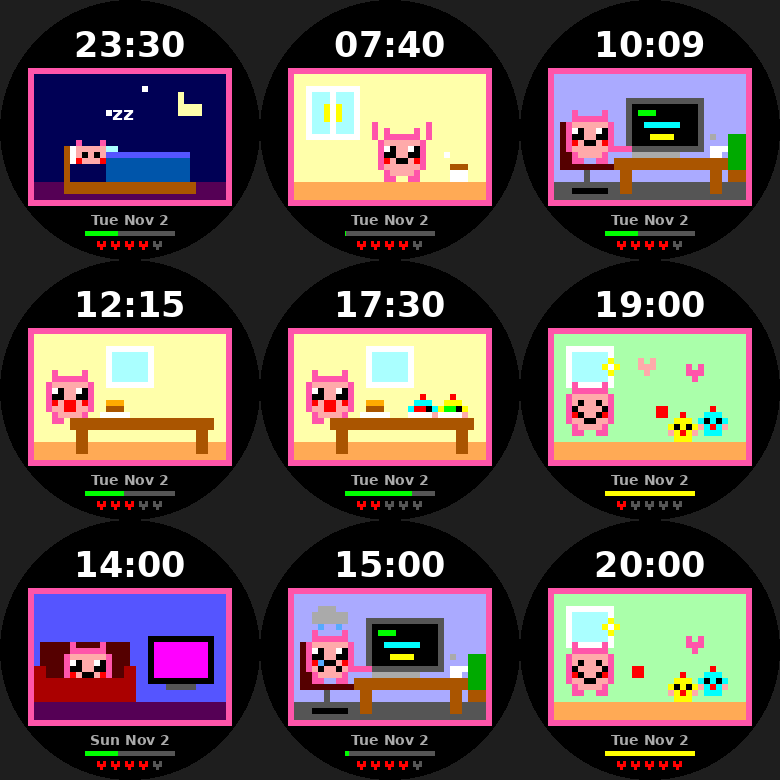
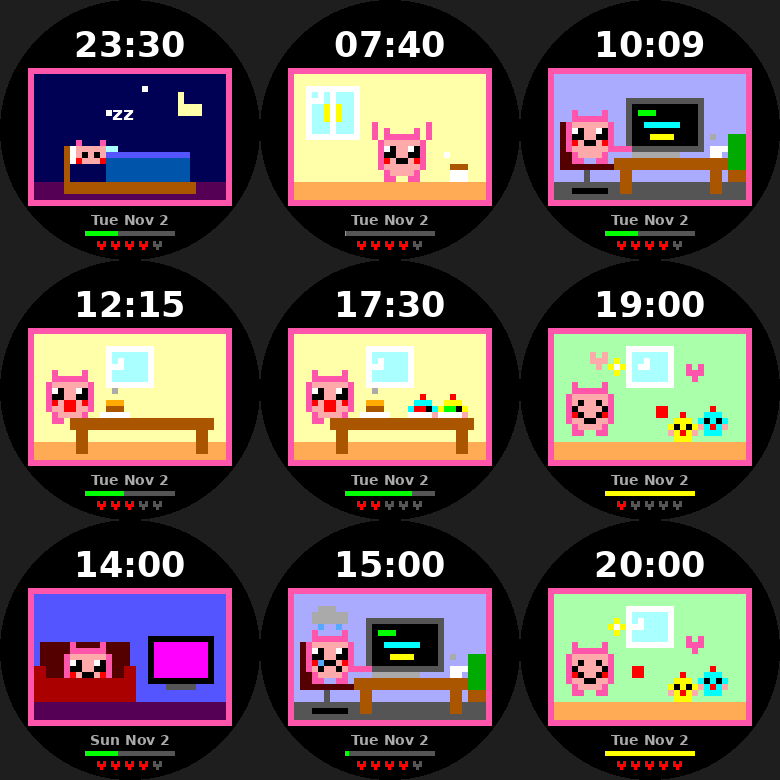
Add five selectable pets (tap to cycle), window clouds, food steam
Claude-Session: https://claude.ai/code/session_011ky8cAnUXaEurYwVogiPNe

diff --git a/desk-pet/src/c/main.c b/desk-pet/src/c/main.c
@@ -60,30 +60,98 @@ static void heart_px(GColor c, int x, int y) {
   box(c, x + 1, y + 2, 1, 1);
 }
 
-// Pet palette: a soft pink blob with a deeper pink outline.
-#define PET_BODY GColorMelon
-#define PET_OUT  GColorShockingPink
+// ------------------------------------------------------------- pet species
+// Flick your wrist (tap) to cycle through the pets; the choice is saved.
+
+typedef enum { EARS_NUB, EARS_CAT, EARS_BUNNY, EARS_BEAR, EARS_FROG } EarStyle;
+#define NUM_SPECIES 5
+#define PERSIST_SPECIES 1
+
+typedef struct {
+  GColor body, out, blush, snout;
+  EarStyle ears;
+} Species;
+
+static Species s_sp;
+static int s_species;
+
+static void load_species(int id) {
+  switch (id) {
+    default:
+    case 0:  // blob: pink blob
+      s_sp = (Species){GColorMelon, GColorShockingPink, GColorRed, GColorMelon, EARS_NUB};
+      break;
+    case 1:  // cat: orange tabby
+      s_sp = (Species){GColorRajah, GColorOrange, GColorShockingPink, GColorRajah, EARS_CAT};
+      break;
+    case 2:  // bunny: white with long ears
+      s_sp = (Species){GColorWhite, GColorLightGray, GColorShockingPink, GColorWhite, EARS_BUNNY};
+      break;
+    case 3:  // bear: brown with a creamy snout
+      s_sp = (Species){GColorWindsorTan, GColorBulgarianRose, GColorMelon, GColorRajah, EARS_BEAR};
+      break;
+    case 4:  // frog: green with eye bumps and a wide grin
+      s_sp = (Species){GColorGreen, GColorIslamicGreen, GColorShockingPink, GColorGreen, EARS_FROG};
+      break;
+  }
+}
+
+#define PET_BODY (s_sp.body)
+#define PET_OUT  (s_sp.out)
 
 static int s_bob;   // 1 = pet is standing and hops on odd frames
 
 static void px(int x, int y, GColor c) { box(c, x, y, 1, 1); }
 
-// The grown-up pet: 8 wide, 8 tall (plus ear nubs one row above).
+// The grown-up pet: 8 wide, 8 tall plus ears/extras around it.
 // mouth: 0 = closed, 1 = open (chewing / talking)
 static void pet(int x, int y, bool blink, int mouth) {
   if (s_bob && (s_tick & 1)) y -= 1;               // little hop
-  // ear nubs
-  px(x + 1, y - 1, PET_OUT);
-  px(x + 6, y - 1, PET_OUT);
+  GColor out = s_sp.out, body = s_sp.body;
+  // ears / bumps (drawn first so the head overlaps them)
+  switch (s_sp.ears) {
+    case EARS_CAT:
+      box(out, x + 1, y - 1, 2, 1);  px(x + 1, y - 2, out);
+      box(out, x + 5, y - 1, 2, 1);  px(x + 6, y - 2, out);
+      break;
+    case EARS_BUNNY:
+      box(out, x + 1, y - 3, 2, 3);  px(x + 2, y - 2, s_sp.blush);
+      box(out, x + 5, y - 3, 2, 3);  px(x + 5, y - 2, s_sp.blush);
+      break;
+    case EARS_BEAR:
+      box(out, x, y - 1, 2, 2);
+      box(out, x + 6, y - 1, 2, 2);
+      break;
+    case EARS_FROG:
+      box(out, x + 1, y - 1, 2, 1);
+      box(out, x + 5, y - 1, 2, 1);
+      break;
+    default:
+      px(x + 1, y - 1, out);
+      px(x + 6, y - 1, out);
+      break;
+  }
   // body: outline, then fill
-  box(PET_OUT, x + 1, y, 6, 1);
-  box(PET_OUT, x, y + 1, 8, 5);
-  box(PET_OUT, x + 1, y + 6, 6, 1);
-  box(PET_BODY, x + 1, y + 1, 6, 5);
-  box(PET_BODY, x + 2, y + 6, 4, 1);
+  box(out, x + 1, y, 6, 1);
+  box(out, x, y + 1, 8, 5);
+  box(out, x + 1, y + 6, 6, 1);
+  box(body, x + 1, y + 1, 6, 5);
+  box(body, x + 2, y + 6, 4, 1);
   // feet
-  box(PET_OUT, x + 1, y + 7, 2, 1);
-  box(PET_OUT, x + 5, y + 7, 2, 1);
+  box(out, x + 1, y + 7, 2, 1);
+  box(out, x + 5, y + 7, 2, 1);
+  // extras: whiskers + wagging tail, bunny pom-pom, bear snout
+  if (s_sp.ears == EARS_CAT) {
+    px(x - 1, y + 3, GColorDarkGray);  px(x - 1, y + 5, GColorDarkGray);
+    px(x + 8, y + 3, GColorDarkGray);  px(x + 8, y + 5, GColorDarkGray);
+    box(out, x + 8, y + 6, 1, 2);
+    px(x + 9, y + 5 + (int)(s_tick & 1), out);
+  } else if (s_sp.ears == EARS_BUNNY) {
+    px(x - 1, y + 6, GColorWhite);
+    px(x - 1, y + 5, GColorWhite);
+  } else if (s_sp.ears == EARS_BEAR) {
+    box(s_sp.snout, x + 2, y + 4, 4, 2);
+  }
   // big shiny eyes (2x2 each) or sleepy blink
   if (blink) {
     box(GColorBlack, x + 1, y + 3, 2, 1);
@@ -100,8 +168,10 @@ static void pet(int x, int y, bool blink, int mouth) {
     px(x + 5, y + 2, GColorWhite);
   }
   // blush
-  px(x + 1, y + 4, GColorRed);
-  px(x + 6, y + 4, GColorRed);
+  if (s_sp.ears != EARS_BEAR) {
+    px(x + 1, y + 4, s_sp.blush);
+    px(x + 6, y + 4, s_sp.blush);
+  }
   // mouth
   if (mouth) {
     box(GColorRed, x + 3, y + 4, 2, 2);
@@ -113,21 +183,24 @@ static void pet(int x, int y, bool blink, int mouth) {
     px(x + 2, y + 4, GColorBlack);                 // big smile
     px(x + 5, y + 4, GColorBlack);
     box(GColorBlack, x + 3, y + 5, 2, 1);
+  } else if (s_sp.ears == EARS_FROG) {
+    box(GColorBlack, x + 2, y + 5, 4, 1);          // wide froggy grin
   } else {
-    px(x + 3, y + 4, GColorBlack);                 // tiny "w" mouth
+    px(x + 3, y + 4, GColorBlack);                 // tiny "w" mouth / nose
     px(x + 4, y + 4, GColorBlack);
   }
   if (s_mood == MOOD_SAD) {
     box(GColorPictonBlue, x + 2, y + 4, 1, 1 + (int)(s_tick & 1));   // tear
     // little rain cloud overhead
-    box(GColorLightGray, x + 1, y - 4, 6, 2);
-    box(GColorLightGray, x + 2, y - 5, 3, 1);
-    px(x + 2 + 2 * (int)(s_tick & 1), y - 2, GColorPictonBlue);
-    px(x + 5 - 2 * (int)(s_tick & 1), y - 2, GColorPictonBlue);
+    int cy = y - (s_sp.ears == EARS_BUNNY ? 7 : 4);
+    box(GColorLightGray, x + 1, cy, 6, 2);
+    box(GColorLightGray, x + 2, cy - 1, 3, 1);
+    px(x + 2 + 2 * (int)(s_tick & 1), cy + 2, GColorPictonBlue);
+    px(x + 5 - 2 * (int)(s_tick & 1), cy + 2, GColorPictonBlue);
   } else if (s_mood == MOOD_HAPPY) {
     // twinkling sparkles
-    int sx = (s_tick & 1) ? x + 7 : x;
-    int sy = y - 5;
+    int sx = (s_tick & 1) ? x + 8 : x - 1;
+    int sy = y - (s_sp.ears == EARS_BUNNY ? 6 : 5);
     box(GColorYellow, sx, sy, 1, 3);
     box(GColorYellow, sx - 1, sy + 1, 3, 1);
     px(sx, sy + 1, GColorWhite);
@@ -149,6 +222,13 @@ static void kid(int x, int y, GColor c, bool happy) {
   } else {
     px(x + 2, y + 2, GColorBlack);
   }
+}
+
+// A small cloud drifting across a window (x0..x0+w-1 at row y0).
+static void cloud(int x0, int y0, int w) {
+  int cx = x0 + (int)((s_tick / 3) % (uint32_t)(w - 1));
+  box(GColorWhite, cx, y0, 2, 1);
+  px(cx + 1, y0 - 1, GColorWhite);
 }
 
 static void room(GColor wall, GColor floor_c) {
@@ -198,6 +278,7 @@ static void scene_wake(void) {
   box(GColorWhite, 2, 2, 9, 9);
   box(GColorCeleste, 3, 3, 7, 7);
   box(GColorYellow, 5, 5, 3, 3);
+  cloud(3, 4, 7);
   box(GColorWhite, 6, 2, 1, 9);
   // stretching pet
   int pxx = 14, pyy = 10;
@@ -260,6 +341,7 @@ static void table_scene(bool family) {
   // window
   box(GColorWhite, 12, 2, 8, 7);
   box(GColorCeleste, 13, 3, 6, 5);
+  cloud(13, 5, 5);
   pet(2, 7, (s_tick % 7) == 0, mouth);
   if (family) {
     kid(19, 11, GColorCyan, mouth);
@@ -273,6 +355,7 @@ static void table_scene(bool family) {
   box(GColorWhite, 11, 13, 5, 1);
   box(GColorChromeYellow, 12, 11, 3, 1);          // bun
   box(GColorWindsorTan, 12, 12, 3, 1);            // patty
+  px(13, 10 - (int)(s_tick & 1), GColorLightGray);  // steam
   if (family) {
     box(GColorWhite, 19, 13, 4, 1);
     box(GColorRed, 20, 12, 2, 1);
@@ -284,8 +367,9 @@ static void table_scene(bool family) {
 static void scene_play(void) {
   room(GColorMintGreen, GColorRajah);
   // window
-  box(GColorWhite, 2, 2, 8, 7);
-  box(GColorCeleste, 3, 3, 6, 5);
+  box(GColorWhite, 12, 2, 8, 7);
+  box(GColorCeleste, 13, 3, 6, 5);
+  cloud(13, 5, 5);
   // family
   s_bob = 1;
   pet(2, 10, (s_tick % 7) == 0, 0);
@@ -303,7 +387,7 @@ static void scene_play(void) {
   int rise = (s_tick / 2) % 3;
   heart_px(GColorShockingPink, 22, 7 - rise);
   if (rise == 2) {
-    heart_px(GColorMelon, 14, 4);
+    heart_px(GColorMelon, 6, 3);
   }
 }
 
@@ -467,6 +551,13 @@ static void tick_handler(struct tm *tick_time, TimeUnits units_changed) {
   layer_mark_dirty(s_canvas);
 }
 
+static void tap_handler(AccelAxisType axis, int32_t direction) {
+  s_species = (s_species + 1) % NUM_SPECIES;
+  load_species(s_species);
+  persist_write_int(PERSIST_SPECIES, s_species);
+  layer_mark_dirty(s_canvas);
+}
+
 static void battery_handler(BatteryChargeState state) {
   s_batt = state.charge_percent;
   layer_mark_dirty(s_canvas);
@@ -492,6 +583,8 @@ static void init(void) {
   });
   window_stack_push(s_window, true);
 
+  s_species = persist_exists(PERSIST_SPECIES) ? persist_read_int(PERSIST_SPECIES) % NUM_SPECIES : 0;
+  load_species(s_species);
   update_time();
   update_steps();
   s_batt = battery_state_service_peek().charge_percent;
@@ -499,6 +592,7 @@ static void init(void) {
   // One tick per second drives the 1 fps "Tamagotchi" animation.
   tick_timer_service_subscribe(SECOND_UNIT, tick_handler);
   battery_state_service_subscribe(battery_handler);
+  accel_tap_service_subscribe(tap_handler);
 #if defined(PBL_HEALTH)
   health_service_events_subscribe(health_handler, NULL);
 #endif
@@ -507,6 +601,7 @@ static void init(void) {
 static void deinit(void) {
   tick_timer_service_unsubscribe();
   battery_state_service_unsubscribe();
+  accel_tap_service_unsubscribe();
 #if defined(PBL_HEALTH)
   health_service_events_unsubscribe();
 #endif

diff --git a/desk-pet/tools/preview/render.c b/desk-pet/tools/preview/render.c
@@ -1,4 +1,4 @@
-// Renders main.c's scenes to raw frames: ./render <hour> <wday> <min> <steps> <batt> <tick> > frame.bin
+// Renders main.c's scenes to raw frames: ./render <hour> <wday> <min> <steps> <batt> <tick> [species] > frame.bin
 #include "pebble.h"
 #define main app_main
 #include "../../src/c/main.c"
@@ -41,6 +41,11 @@ void tick_timer_service_unsubscribe(void) {}
 void battery_state_service_subscribe(void (*h)(BatteryChargeState)) {}
 void battery_state_service_unsubscribe(void) {}
 void app_event_loop(void) {}
+void accel_tap_service_subscribe(AccelTapHandler h) {}
+void accel_tap_service_unsubscribe(void) {}
+bool persist_exists(uint32_t k) { return false; }
+int32_t persist_read_int(uint32_t k) { return 0; }
+int persist_write_int(uint32_t k, int32_t v) { return 4; }
 HealthServiceAccessibilityMask health_service_metric_accessible(HealthMetric m, time_t a, time_t b) { return HealthServiceAccessibilityMaskAvailable; }
 uint32_t health_service_sum_today(HealthMetric m) { return g_steps; }
 time_t time_start_of_today(void) { return 0; }
@@ -53,6 +58,8 @@ int main(int argc, char **argv) {
   g_steps = atoi(argv[4]); s_batt = atoi(argv[5]); s_tick = atoi(argv[6]);
   snprintf(s_time_buf, sizeof s_time_buf, "%02d:%02d", s_hour, s_min);
   snprintf(s_date_buf, sizeof s_date_buf, "%s Nov 2", (const char *[]){"Sun","Mon","Tue","Wed","Thu","Fri","Sat"}[s_wday]);
+  if (argc > 7) load_species(atoi(argv[7]));
+  else load_species(0);
   update_steps();
   canvas_update(NULL, NULL);
   fwrite(fb, 1, sizeof fb, stdout);

diff --git a/desk-pet/tools/preview/render.py b/desk-pet/tools/preview/render.py
@@ -21,8 +21,8 @@ def fnt(name):
             return ImageFont.truetype(p, int(size * .8))
     return ImageFont.load_default()
 
-def frame(name, hour, wday, minute=9, steps=3000, batt=80, tick=0):
-    r = subprocess.run([exe, *map(str, (hour, wday, minute, steps, batt, tick))], capture_output=True, check=True)
+def frame(name, hour, wday, minute=9, steps=3000, batt=80, tick=0, species=0):
+    r = subprocess.run([exe, *map(str, (hour, wday, minute, steps, batt, tick, species))], capture_output=True, check=True)
     im = Image.new("RGB", (260, 260))
     px = im.load()
     for y in range(260):
@@ -56,4 +56,15 @@ sheet = Image.new("RGB", (260 * 3, 260 * 3))
 for i, im in enumerate(ims):
     sheet.paste(im, ((i % 3) * 260, (i // 3) * 260))
 sheet.save(os.path.join(out, "sheet.png"))
+# One row per species: code, play, sad-at-desk, happy.
+NAMES = ["blob", "cat", "bunny", "bear", "frog"]
+rows = []
+for sp, n in enumerate(NAMES):
+    rows.append([frame(f"{n}_code", 10, 2, 9, 3000, 80, 2, sp), frame(f"{n}_play", 19, 2, 0, 5000, 80, 5, sp),
+                 frame(f"{n}_sad", 15, 2, 0, 400, 80, 3, sp), frame(f"{n}_happy", 20, 2, 0, 8500, 80, 1, sp)])
+pets = Image.new("RGB", (260 * 4, 260 * 5))
+for r_i, row in enumerate(rows):
+    for c_i, im in enumerate(row):
+        pets.paste(im, (c_i * 260, r_i * 260))
+pets.save(os.path.join(out, "pets.png"))
 print("wrote", out)

diff --git a/desk-pet/tools/preview/pebble.h b/desk-pet/tools/preview/pebble.h
@@ -97,3 +97,11 @@ uint32_t health_service_sum_today(HealthMetric);
 time_t time_start_of_today(void);
 void health_service_events_subscribe(HealthEventHandler, void *);
 void health_service_events_unsubscribe(void);
+
+typedef enum { ACCEL_AXIS_X, ACCEL_AXIS_Y, ACCEL_AXIS_Z } AccelAxisType;
+typedef void (*AccelTapHandler)(AccelAxisType, int32_t);
+void accel_tap_service_subscribe(AccelTapHandler);
+void accel_tap_service_unsubscribe(void);
+bool persist_exists(uint32_t);
+int32_t persist_read_int(uint32_t);
+int persist_write_int(uint32_t, int32_t);

diff --git a/README.md b/README.md
@@ -27,6 +27,12 @@ pebble build
 pebble install --emulator gabbro
 ```
 
+### Pets
+
+Five pets: blob (pink), cat (orange tabby with whiskers and a wagging tail), bunny, bear and frog. **Flick your wrist (tap) to switch pet**; the choice is saved. Rows below are blob, cat, bunny, bear, frog.
+
+![pets](desk-pet/docs/pets.png)
+
 ### Status
 
 - `pebble build` succeeds for `gabbro` against SDK 4.33.1 (no code warnings).
